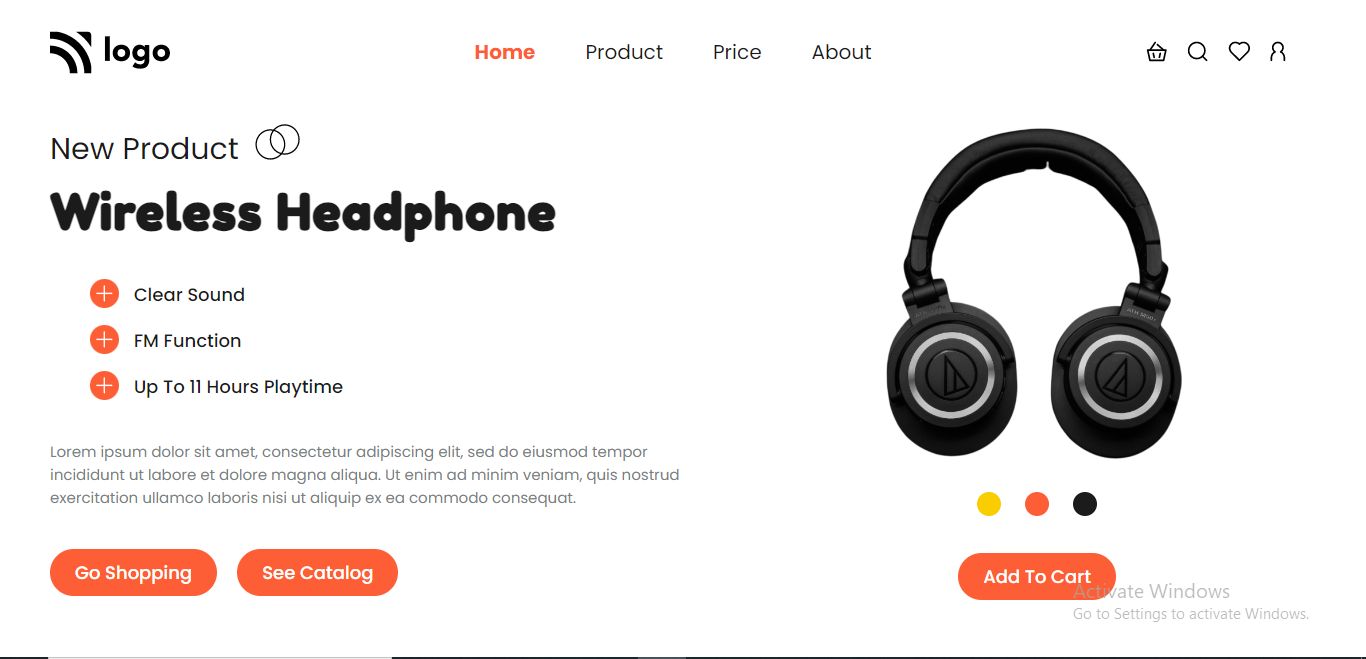
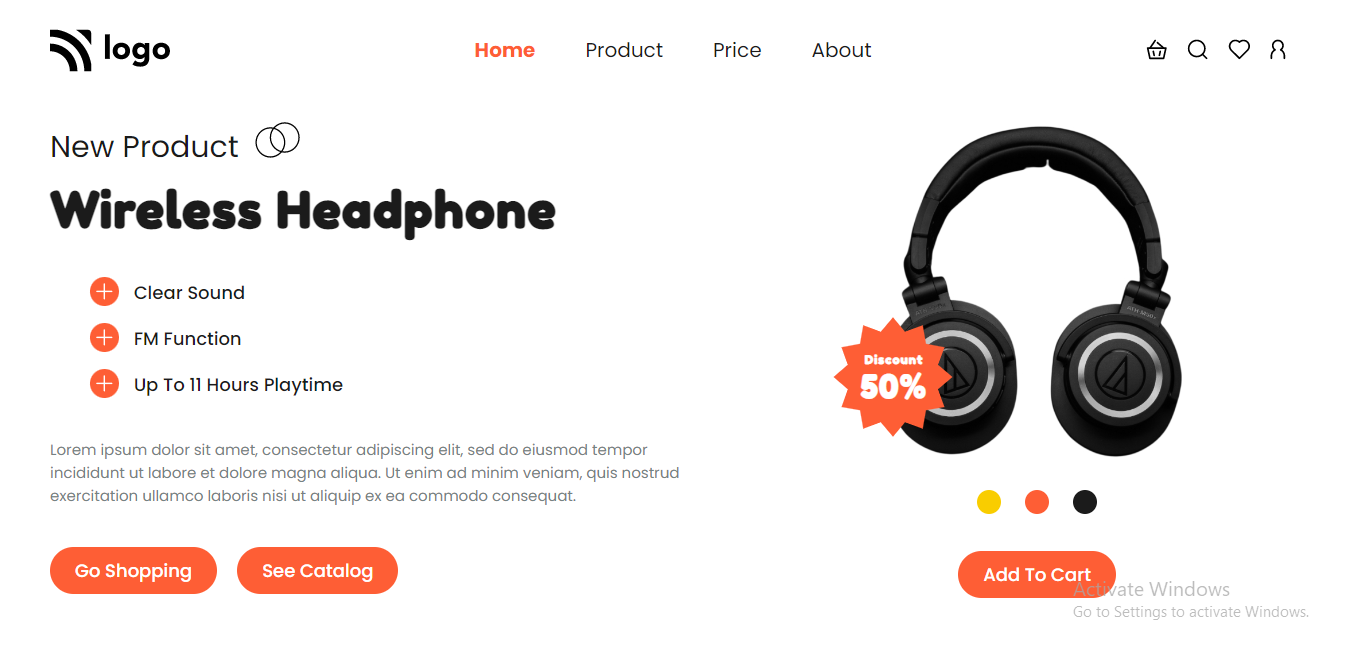
project updated

diff --git a/css/style.css b/css/style.css
@@ -22,6 +22,7 @@ button:hover {
   opacity: 0.85;
 }
 
+/* Navbar */
 nav {
   display: flex;
   justify-content: space-between;
@@ -57,10 +58,12 @@ img[alt="actions"] {
   cursor: pointer;
 }
 
+/* Intro section */
 .intro-section {
   display: flex;
 }
 
+/* Left section */
 .left-section {
   padding-left: 50px;
   flex: 1;
@@ -120,6 +123,7 @@ img[alt="plus"] {
   gap: 20px;
 }
 
+/* Right section */
 .right-section {
   flex: 1;
   position: relative;
@@ -134,25 +138,25 @@ img[alt="headphone"] {
 .discount {
   width: 120px;
   position: absolute;
-  left: 120px;
-  top: 250px;
+  left: 125px;
+  top: 245px;
 }
 
 .discount-content {
   position: absolute;
-  left: 145px;
+  left: 153px;
   top: 280px;
   text-align: center;
 }
 
 .discount-content * {
+  font-family: "Fredoka One";
   color: #ffffff;
+  letter-spacing: 1px;
 }
 
 .discount-content h4 {
   font-size: 12px;
-  font-weight: 600;
-  margin-bottom: -8px;
 }
 
 .dots {

diff --git a/index.html b/index.html
@@ -60,7 +60,7 @@
       </div>
       <div class="right-section">
         <div class="headphone-div">
-          <!-- <img
+          <img
             src="./assets/svg images/discount.svg"
             alt="discount"
             class="discount"
@@ -68,7 +68,7 @@
           <div class="discount-content">
             <h4>Discount</h4>
             <h1>50%</h1>
-          </div> -->
+          </div>
           <img src="./assets/jpg images/headphones.jpg" alt="headphone" />
         </div>
         <div class="dots">

diff --git a/css/media-query.css b/css/media-query.css
@@ -1,3 +1,10 @@
+@media (max-width: 1300px) {
+  .discount,
+  .discount-content {
+    display: none;
+  }
+}
+
 @media (max-width: 1100px) {
   .intro-section {
     flex-direction: column-reverse;
